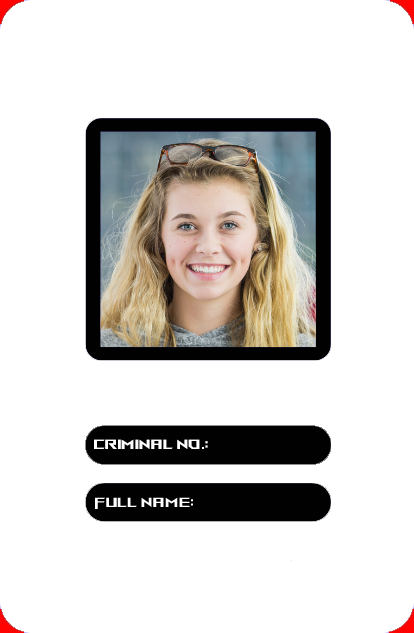
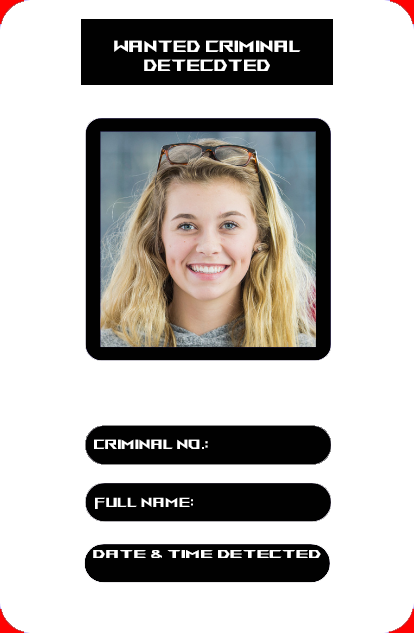
new

Changed region(s): [[0.1739, 0.03, 0.8116, 0.1501], [0.2029, 0.8404, 0.8116, 0.9305]]

diff --git a/test.py b/test.py
@@ -4,6 +4,19 @@ import pickle
 import face_recognition
 import numpy as np
 import cvzone
+import firebase_admin
+from firebase_admin import credentials
+from firebase_admin import db
+from firebase_admin import storage
+from datetime import datetime
+
+cred = credentials.Certificate("serviceAccountKey.json")
+firebase_admin.initialize_app(cred, {
+    'databaseURL': "https://realtimecriminaldetection-default-rtdb.firebaseio.com/",
+    'storageBucket': "realtimecriminaldetection.appspot.com"
+})
+
+bucket = storage.bucket()
 
 cap = cv2.VideoCapture(0)
 cap.set(3, 640)
@@ -29,6 +42,11 @@ encodeListKnown, CriminalIds = encodeListKnownWithIds
 print("Encode File Loaded")
 
 
+modeType = 0
+counter = 0
+id = -1
+imgCriminal = []
+
 while True:
     success, img = cap.read()
     
@@ -39,7 +57,7 @@ while True:
     encodeCurFrame = face_recognition.face_encodings(imgS, faceCurFrame)
     
     imgBackground[162:162 + 480, 55:55 + 640] = img
-    imgBackground[44:44 + 633, 808:808 + 414] = imgModeList[0]
+    imgBackground[44:44 + 633, 808:808 + 414] = imgModeList[modeType]
     
     
     for encodeFace, faceLoc in zip(encodeCurFrame, faceCurFrame):
@@ -58,6 +76,48 @@ while True:
             y1, x2, y2, x1 = y1 * 4, x2 * 4, y2 * 4, x1 * 4
             bbox = 55 + x1, 162 + y1, y2 - y1, x2 - x1  # Swap h and w
             imgBackground = cvzone.cornerRect(imgBackground, bbox, rt=0)
+            id = CriminalIds[matchIndex]           
+            if counter == 0:
+                counter = 1
+                modeType = 1
+                
+    if counter!= 0:
+        
+        if counter ==1:            
+            #get data
+            criminalInfo = db.reference(f'Criminals/{id}').get()
+            print(criminalInfo)
+            #Get data from storage
+            blob = bucket.get_blob(f'Images/{id}.png')
+            array = np.frombuffer(blob.download_as_string(), np.uint8)
+            imgCriminal = cv2.imdecode(array, cv2.COLOR_BGRA2BGR)
+            
+            datetimeObject = datetime.strptime(criminalInfo['date_and_time_detected'],
+                                              "%Y-%m-%d %H:%M:%S")
+            secondsElapsed = (datetime.now()-datetimeObject).total_seconds()
+            print(secondsElapsed)
+            ref = db.reference(f'Criminals/{id}')
+            ref.child('date_and_time_detected').set(datetime.now().strftime("%Y-%m-%d %H:%M:%S"))
+            
+        if counter<= 30:    
+            cv2.putText(imgBackground, str(criminalInfo['criminal_no']), (1050, 495),
+                        cv2.FONT_HERSHEY_COMPLEX, 0.6, (100, 100, 100), 1)
+            cv2.putText(imgBackground, str(criminalInfo['name']), (1006, 550),
+                        cv2.FONT_HERSHEY_COMPLEX, 0.5, (100, 100, 100), 1)
+            cv2.putText(imgBackground, str(criminalInfo['date_and_time_detected']), (920, 620),
+                        cv2.FONT_HERSHEY_COMPLEX, 0.5, (100, 100, 100), 1)
+            
+            imgBackground[175:175+216, 909:909+216] = imgCriminal
+        
+        counter+=1
+        
+        
+        if counter>=30:
+            counter = 0
+            modeType = 0
+            criminalInfo = []
+            imgCriminal = []
+            imgBackground[44:44 + 633, 808:808 + 414] = imgModeList[modeType]
     
     cv2.imshow("Criminal", imgBackground)
     cv2.waitKey(1)

diff --git a/EncodeGenerator.py b/EncodeGenerator.py
@@ -2,6 +2,16 @@ import cv2
 import face_recognition
 import pickle
 import os
+import firebase_admin
+from firebase_admin import credentials
+from firebase_admin import db
+from firebase_admin import storage
+
+cred = credentials.Certificate("serviceAccountKey.json")
+firebase_admin.initialize_app(cred, {
+    'databaseURL': "https://realtimecriminaldetection-default-rtdb.firebaseio.com/",
+    'storageBucket': "realtimecriminaldetection.appspot.com"
+})
 
 #Importing Criminal Images
 folderPath = 'Images'
@@ -15,6 +25,12 @@ for path in PathList:
     #print(path)
     #print(os.path.splitext(path)[0])
     CriminalIds.append(os.path.splitext(path)[0])
+    
+    fileName = f'{folderPath}/{path}'
+    bucket = storage.bucket()
+    blob = bucket.blob(fileName)
+    blob.upload_from_filename(fileName)
+    
 print(CriminalIds)
 
 def findEncodings(imagesList):

diff --git a/AddDataToDatabase.py b/AddDataToDatabase.py
@@ -10,12 +10,24 @@ firebase_admin.initialize_app(cred, {
 ref = db.reference('Criminals')
 
 data = {
-    "312654":
+    "321654":
         {
-            "name": "Christian Ervin T. Tan",
-            "Criminal No.": "312654"
+            "name": "Christian Tan",
+            "criminal_no": "1",
+            "date_and_time_detected": "2022-12-11 00:54:34",
+        },
+    "852741":
+        {
+            "name": "Emily Blunt",
+            "criminal_no": "2",
+            "date_and_time_detected": "2022-12-11 00:54:34",
+        },
+    "963852":
+        {
+            "name": "Elon Musk",
+            "criminal_no": "3",
+            "date_and_time_detected": "2022-12-11 00:54:34",
         }
-
 }
 
 for key, value in data.items():
